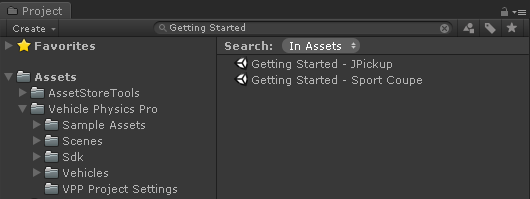
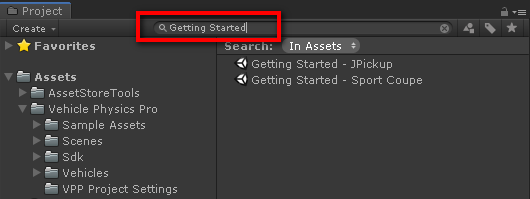
Getting Started: better intro text and pic

Changed region(s): [[0.2415, 0.0302, 0.5434, 0.2412], [0.0, 0.0, 0.1509, 0.0302], [0.3019, 0.1206, 0.3321, 0.1508]]

diff --git a/docs/user-guide/getting-started.md b/docs/user-guide/getting-started.md
@@ -1,9 +1,9 @@
 # Getting started
 
-Search for of the "Getting Started -" scenes in your Project window and open any of them. You should
-have Vehicle Physics Pro set up already ([See Setting Up VPP](/user-guide/setting-up-vpp)).
+Type _Getting Started_ in your Project's search box and open any of the scenes in the results. You
+should have Vehicle Physics Pro set up already ([See Setting Up VPP](/user-guide/setting-up-vpp)).
 
-![Getting Started Scenes](/img/user-guide/vpp-getting-started-scenes.png){: .clickview }
+![Getting Started Scenes](/img/user-guide/vpp-getting-started-scenes.png)
 
 &fa-thumbs-up:lg; If you haven't setup the Unity project yet, you can still [download and play the demos](/about/demos){: .alert-link }
 {: .alert .alert-info }
